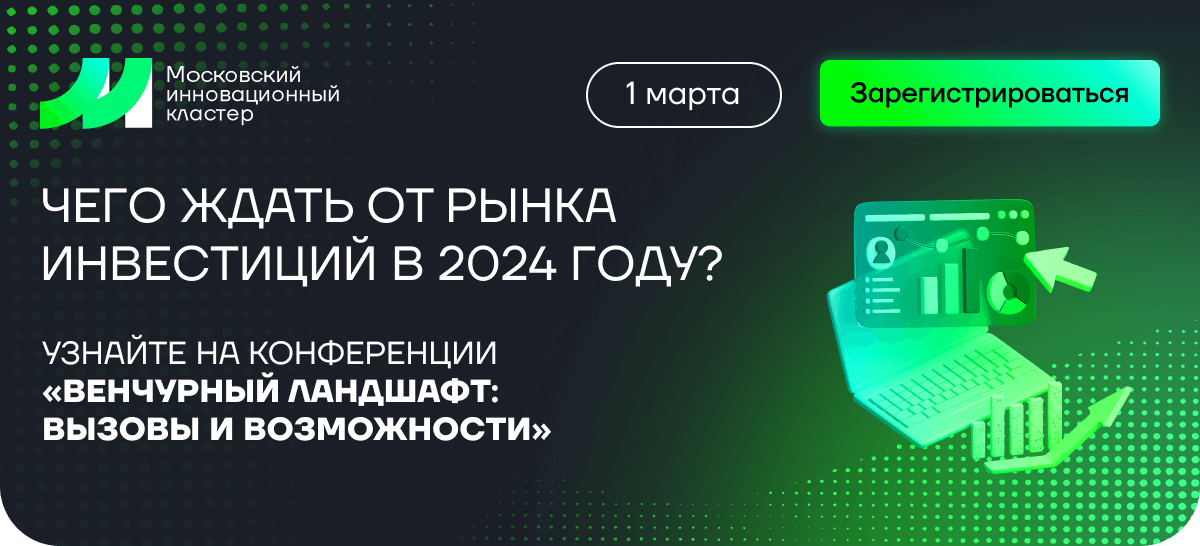
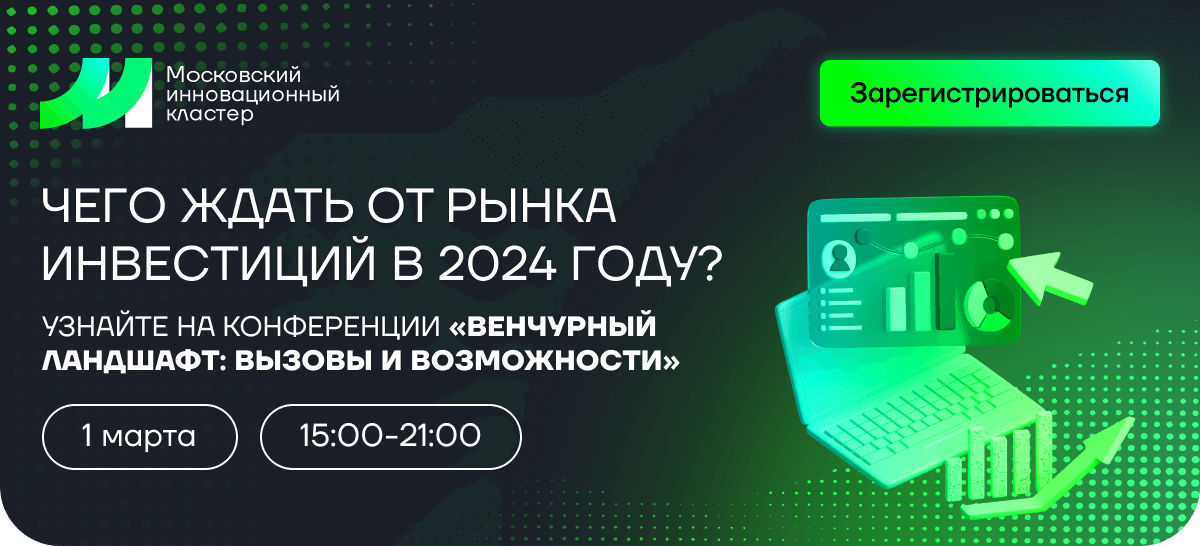
add mik-57

diff --git a/mik-57/Чего ждать от рынка инвестиций.html b/mik-57/Чего ждать от рынка инвестиций.html
@@ -1002,7 +1002,7 @@
                         <table border="0" cellpadding="0" cellspacing="0" role="presentation" style="vertical-align:top;" width="100%">
                             <tbody>
                             <tr>
-                                <td style="font-size:0px;word-break:break-word;padding:13px 9px 11px 13px;">
+                                <td style="font-size:0px;word-break:break-word;padding:13px 9px 11px 9px;">
                                     <table border="0" cellpadding="0" cellspacing="0" role="presentation" style="border-collapse:separate;width:100%;line-height:100%;">
                                         <tr>
                                             <td style="font-size:0px;word-break:break-word;padding-bottom:7px">
@@ -1016,25 +1016,25 @@
                                                         <tbody>
                                                         <tr>
                                                             <td style="direction:ltr;font-size:0px;">
-                                                                <!--[if mso | IE]><table role="presentation" border="0" cellpadding="0" cellspacing="0"><tr><td class="" style="vertical-align:top;width:91px;margin-right:4px;" ><![endif]-->
-                                                                <div class="mj-outlook-group-fix" style="font-size:0px;text-align:left;direction:ltr;display:inline-block;vertical-align:top;width:91px;border-radius:50px;border:1px solid #000000;margin-right:4px;margin-bottom:10px;">
+                                                                <!--[if mso | IE]><table role="presentation" border="0" cellpadding="0" cellspacing="0"><tr><td class="" style="vertical-align:top;width:121px;margin-right:6px;" ><![endif]-->
+                                                                <div class="mj-outlook-group-fix" style="font-size:0px;text-align:left;direction:ltr;display:inline-block;vertical-align:top;width:121px;border-radius:50px;border:1px solid #000000;margin-right:6px;margin-bottom:10px;">
                                                                     <table border="0" cellpadding="0" cellspacing="0" role="presentation" style="vertical-align:top;" width="100%">
                                                                         <tbody>
                                                                         <tr>
-                                                                            <td align="center" style="font-size:0px;word-break:break-word;height:29px;">
-                                                                                <div style="display:inline-block;color:#000000;font-family:Gilroy, Helvetica, Arial, sans-serif;font-size:14px;font-weight:400;line-height:17px;margin:0;text-decoration:none;text-transform:none;mso-padding-alt:0px;border-radius:20px;">1 марта</div>
+                                                                            <td align="center" style="font-size:0px;word-break:break-word;height:33px;">
+                                                                                <div style="display:inline-block;color:#000000;font-family:Gilroy, Helvetica, Arial, sans-serif;font-size:16px;font-weight:400;line-height:120%;margin:0;text-decoration:none;text-transform:none;mso-padding-alt:0px;border-radius:20px;">1 марта</div>
                                                                             </td>
                                                                         </tr>
                                                                         </tbody>
                                                                     </table>
                                                                 </div>
-                                                                <!--[if mso | IE]></td><td class="" style="vertical-align:top;width:169px;" ><![endif]-->
-                                                                <div class="mj-outlook-group-fix" style="font-size:0px;text-align:left;direction:ltr;display:inline-block;vertical-align:top;width:169px;border-radius:50px;border:1px solid #000000">
+                                                                <!--[if mso | IE]></td><td class="" style="vertical-align:top;width:132px;" ><![endif]-->
+                                                                <div class="mj-outlook-group-fix" style="font-size:0px;text-align:left;direction:ltr;display:inline-block;vertical-align:top;width:132px;border-radius:50px;border:1px solid #000000">
                                                                     <table border="0" cellpadding="0" cellspacing="0" role="presentation" style="vertical-align:top;" width="100%">
                                                                         <tbody>
                                                                         <tr>
-                                                                            <td align="center" style="font-size:0px;word-break:break-word;height:29px">
-                                                                                <div style="display:inline-block;color:#000000;font-family:Gilroy, Helvetica, Arial, sans-serif;font-size:14px;font-weight:400;line-height:17px;margin:0;text-decoration:none;text-transform:none;mso-padding-alt:0px;border-radius:20px;">Сбор гостей в&nbsp;15:00</div>
+                                                                            <td align="center" style="font-size:0px;word-break:break-word;height:33px">
+                                                                                <div style="display:inline-block;color:#000000;font-family:Gilroy, Helvetica, Arial, sans-serif;font-size:16px;font-weight:400;line-height:120%;margin:0;text-decoration:none;text-transform:none;mso-padding-alt:0px;border-radius:20px;">15:00-21:00</div>
                                                                             </td>
                                                                         </tr>
                                                                         </tbody>
@@ -1078,7 +1078,7 @@
                                                                         <tbody>
                                                                         <tr>
                                                                             <td align="center" style="font-size:0px;word-break:break-word;height:30px;">
-                                                                                <div style="display:inline-block;color:#000000;font-family:Gilroy, Helvetica, Arial, sans-serif;font-size:14px;font-weight:400;line-height:17px;margin:0;text-decoration:none;text-transform:none;mso-padding-alt:0px;border-radius:20px;">Кластер «Ломоносов»</div>
+                                                                                <div style="display:inline-block;color:#000000;font-family:Gilroy, Helvetica, Arial, sans-serif;font-size:16px;font-weight:400;line-height:120%;margin:0;text-decoration:none;text-transform:none;mso-padding-alt:0px;border-radius:20px;">Кластер «Ломоносов»</div>
                                                                             </td>
                                                                         </tr>
                                                                         </tbody>
